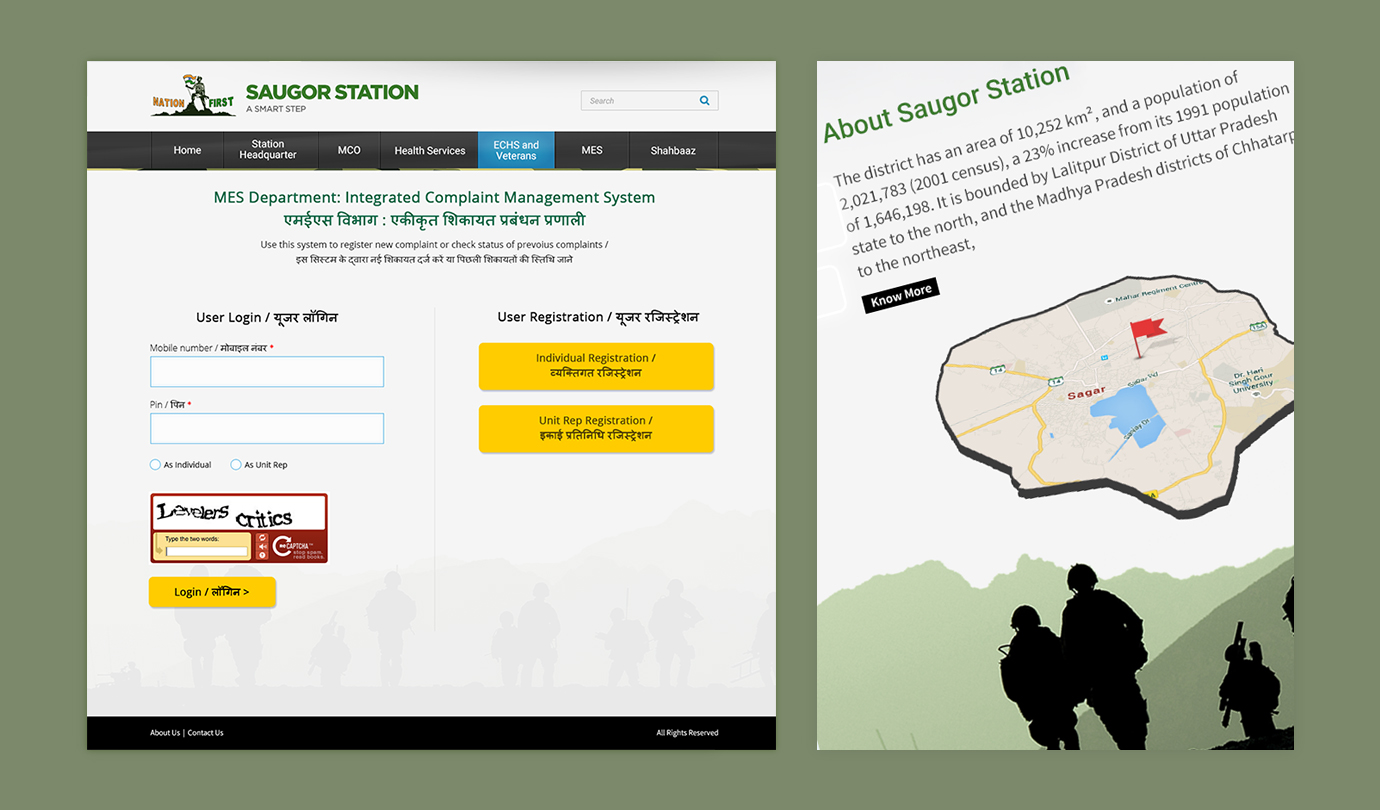
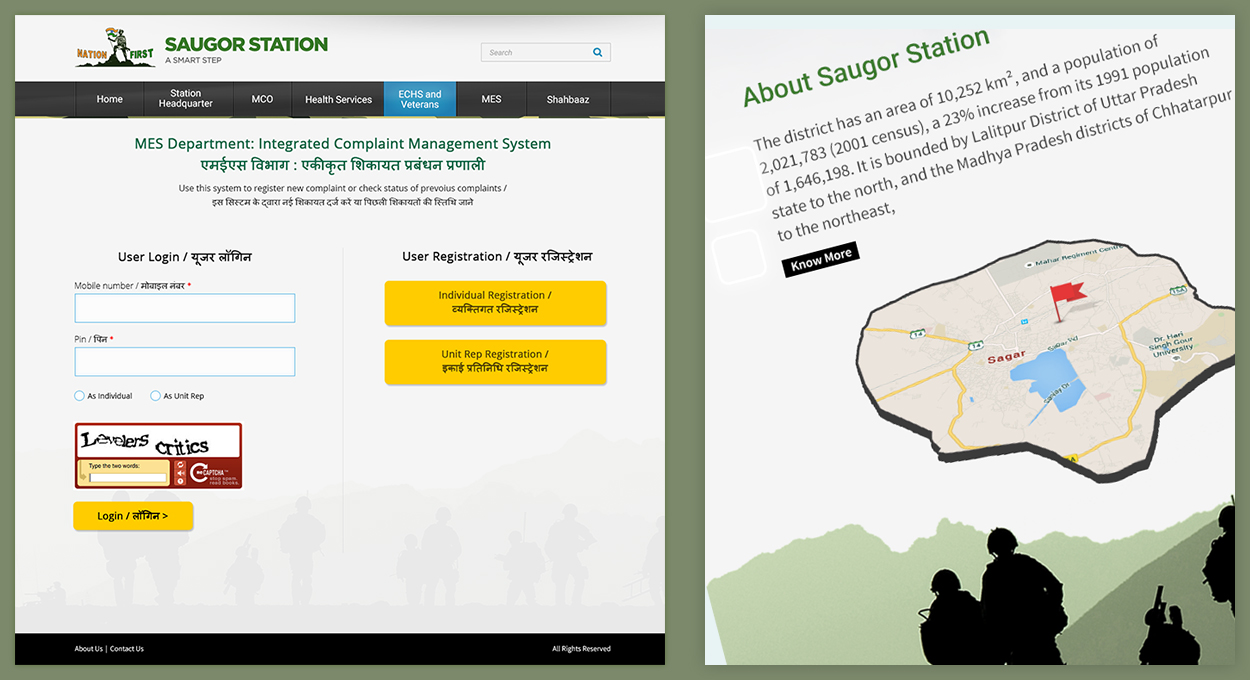
updated with resized images

diff --git a/index.html b/index.html
@@ -1,173 +1,209 @@
 <!doctype html>
 <html lang="en">
 
-	<head>
-		<meta charset="utf-8">
+<head>
+    <meta charset="utf-8">
 
-		<title>47Billion Design Portfolio</title>
+    <title>47Billion Design Portfolio</title>
 
-		<meta name="viewport" content="width=device-width, initial-scale=1.0, maximum-scale=1.0, user-scalable=no, minimal-ui">
+    <meta name="viewport"
+          content="width=device-width, initial-scale=1.0, maximum-scale=1.0, user-scalable=no, minimal-ui">
 
-		<link rel="stylesheet" href="css/reveal.css">
-        <link rel="stylesheet" href="css/style.css">
-		<link rel="stylesheet" href="css/theme/white.css" id="theme">
-        <link rel="stylesheet" href="css/font-awesome.css">
+    <link rel="stylesheet" href="css/reveal.css">
+    <link rel="stylesheet" href="css/style.css">
+    <link rel="stylesheet" href="css/theme/white.css" id="theme">
+    <link rel="stylesheet" href="css/font-awesome.css">
 
-		<!-- Code syntax highlighting -->
-		<link rel="stylesheet" href="lib/css/zenburn.css">
+    <!-- Code syntax highlighting -->
+    <link rel="stylesheet" href="lib/css/zenburn.css">
 
-		<!-- Printing and PDF exports -->
-		<script>
-			var link = document.createElement( 'link' );
-			link.rel = 'stylesheet';
-			link.type = 'text/css';
-			link.href = window.location.search.match( /print-pdf/gi ) ? 'css/print/pdf.css' : 'css/print/paper.css';
-			document.getElementsByTagName( 'head' )[0].appendChild( link );
-		</script>
+    <!-- Printing and PDF exports -->
+    <script>
+        var link = document.createElement('link');
+        link.rel = 'stylesheet';
+        link.type = 'text/css';
+        link.href = window.location.search.match(/print-pdf/gi) ? 'css/print/pdf.css' : 'css/print/paper.css';
+        document.getElementsByTagName('head')[0].appendChild(link);
+    </script>
 
-		<!--[if lt IE 9]>
-		<script src="lib/js/html5shiv.js"></script>
-		<![endif]-->
+    <!--[if lt IE 9]>
+    <script src="lib/js/html5shiv.js"></script>
+    <![endif]-->
 
-        <script>
-            (function(i,s,o,g,r,a,m){i['GoogleAnalyticsObject']=r;i[r]=i[r]||function(){
-                (i[r].q=i[r].q||[]).push(arguments)},i[r].l=1*new Date();a=s.createElement(o),
-                    m=s.getElementsByTagName(o)[0];a.async=1;a.src=g;m.parentNode.insertBefore(a,m)
-            })(window,document,'script','//www.google-analytics.com/analytics.js','ga');
+    <script>
+        (function (i, s, o, g, r, a, m) {
+            i['GoogleAnalyticsObject'] = r;
+            i[r] = i[r] || function () {
+                        (i[r].q = i[r].q || []).push(arguments)
+                    }, i[r].l = 1 * new Date();
+            a = s.createElement(o),
+                    m = s.getElementsByTagName(o)[0];
+            a.async = 1;
+            a.src = g;
+            m.parentNode.insertBefore(a, m)
+        })(window, document, 'script', '//www.google-analytics.com/analytics.js', 'ga');
 
-            ga('create', 'UA-60258456-4', 'auto');
-            ga('send', 'pageview');
+        ga('create', 'UA-60258456-4', 'auto');
+        ga('send', 'pageview');
 
-        </script>
+    </script>
 
-	</head>
+</head>
 
-	<body>
+<body>
 
-		<div class="reveal">
+<div class="reveal">
 
-			<!-- Any section element inside of this container is displayed as a slide -->
-			<div class="slides">
+    <!-- Any section element inside of this container is displayed as a slide -->
+    <div class="slides">
 
-                <section data-transition="convex">
-                    <img src="images/logo-47b.png">
-                    <h3>Design Portfolio</h3>
-                    <p>Please use spacebar or <i class="fa fa-arrow-circle-o-left"></i> <i class="fa fa-arrow-circle-o-right"></i><i class="fa fa-arrow-circle-o-up"></i> <i class="fa fa-arrow-circle-o-down"></i><!--<i class="fa fa-arrows-h"></i>--> on keyboard or swipe to navigate.</p>
-                </section>
-                <!--    <section data-background-transition="convex">
-                     <h2>Product Portals</h2>
-                 </section>
-              <section data-background="images/product-portals/ciscoDashboard.jpg" data-background-transition="slide">
+        <section data-transition="convex">
+            <img src="images/logo-47b.png">
 
-                 </section>
-                 <section data-background="images/product-portals/Innoeye_Technologies.jpg" data-background-transition="slide">
-                 </section>
-                 <section data-background="images/product-portals/personagraph.png" data-background-transition="slide">
-                 </section>-->
-                <section data-transition="convex">
-                    <section><h2>Product Portals</h2></section>
-                    <section data-background="images/product-portals/Cisco.jpg" data-background-transition="slide">
-                    </section>
-                    <section data-background="images/product-portals/Cisco-1.jpg" data-background-transition="slide">
-                    </section>
-                </section>
-                <section data-transition="convex">
-                    <section><h2>Websites</h2></section>
-                    <section data-background="images/websites/agoranza.jpg" data-background-transition="slide">
-                    </section>
-                    <section data-background="images/websites/agribolo.jpg" data-background-transition="slide">
-                    </section>
-                    <section data-background="images/websites/Architects.jpg" data-background-transition="slide">
-                    </section>
-                    <section data-background="images/websites/dylaar.jpg" data-background-transition="slide">
-                    </section>
-                    <section data-background="images/websites/ez.jpg" data-background-transition="slide">
-                    </section>
-                    <section data-background="images/websites/gataca.jpg" data-background-transition="slide">
-                    </section>
-                    <section data-background="images/websites/Lsquared.jpg" data-background-transition="slide">
-                    </section>
-                    <section data-background="images/websites/rajsthan.jpg" data-background-transition="slide">
-                    </section>
-                    <section data-background="images/websites/sagour.jpg" data-background-transition="slide">
-                    </section>
-                    <section data-background="images/websites/Seedx.jpg" data-background-transition="slide">
-                    </section>
-                    <section data-background="images/websites/toyota.jpg" data-background-transition="slide">
-                    </section>
-                    <section data-background="images/websites/tuktuk.jpg" data-background-transition="slide">
-                    </section>
-                    <section data-background="images/websites/UStech.jpg" data-background-transition="slide">
-                    </section>
-                </section>
-                <section data-transition="convex">
-                    <section><h2>Mobile Apps</h2></section>
-                    <section data-background="images/mobile-apps/Uh-O!.jpg" data-background-transition="slide">
-                    </section>
-                    <section data-background="images/mobile-apps/go-tuktuk.jpg" data-background-transition="slide">
-                    </section>
-                    <section data-background="images/mobile-apps/mapSearch.jpg" data-background-transition="slide">
-                    </section>
-                    <section data-background="images/mobile-apps/flum.jpg" data-background-transition="slide">
-                    </section>
-                    <section data-background="images/mobile-apps/dr-plus.jpg" data-background-transition="slide">
-                    </section>
-                    <section data-background="images/mobile-apps/Cisco.jpg" data-background-transition="slide">
-                    </section>
-                    <section data-background="images/mobile-apps/agribolo.jpg" data-background-transition="slide">
-                    </section>
-                </section>
-                <section data-transition="convex">
-                    <img src="images/logo-47b.png">
-                    <h3>Contact us</h3>
-                    <p>info@47billion.com</p>
-                </section>
+            <h3>Design Portfolio</h3>
 
-			</div>
+            <p>Please use spacebar or <i class="fa fa-arrow-circle-o-left"></i> <i
+                    class="fa fa-arrow-circle-o-right"></i><!--<i class="fa fa-arrows-h"></i>--> on keyboard or swipe to
+                navigate.</p>
+        </section>
 
-		</div>
+        <section><h2>Mobile Apps</h2></section>
+        <section data-background="images/mobile-apps/Uh-O!.jpg" data-background-transition="slide">
+        </section>
+        <section data-background="images/mobile-apps/go-tuktuk.jpg" data-background-transition="slide">
+        </section>
+        <section data-background="images/mobile-apps/mapSearch.jpg" data-background-transition="slide">
+        </section>
+        <section data-background="images/mobile-apps/flum.jpg" data-background-transition="slide">
+        </section>
+        <section data-background="images/mobile-apps/dr-plus.jpg" data-background-transition="slide">
+        </section>
+        <section data-background="images/mobile-apps/Cisco.jpg" data-background-transition="slide">
+        </section>
+        <section data-background="images/mobile-apps/agribolo.jpg" data-background-transition="slide">
+        </section>
 
-        <div class="footer">
-            <a href="http://www.47billion.com/"><img src="images/logo-47b.png"></a>
-            <div class="footer-align">
-                <div class="footer-nav">
-                    <ul>
-                        <li><a target="_blank" href="http://www.47billion.com/blog">Blog</a></li>
-                        <li><a href="http://47billion.com/careers">Careers</a></li>
-                        <li><a href="mailto:info@47billion.com">Contact Us</a></li>
-                    </ul>
-                </div>
-                <span class="copyright-text">47Billion &copy; 2015</span>
-            </div>
+        <section><h2>UX</h2></section>
+        <section data-background="images/ux/Agoranza.jpg" data-background-transition="slide"
+                 data-background-size="cover">
+        </section>
+        <section data-background="images/ux/Agribolo-Screen-flow.jpg" data-background-transition="slide">
+        </section>
+        <section data-background="images/ux/Agribolo-web-wireframe.jpg" data-background-transition="slide">
+        </section>
+        <section data-background="images/ux/Agribolo-web-wireframe-2.jpg"
+                 data-background-transition="slide">
+        </section>
+        <section data-background="images/ux/tuktuk-driver-screen-flow.jpg"
+                 data-background-transition="slide">
+        </section>
+        <section data-background="images/ux/tuktuk-riders-screen-flow.jpg"
+                 data-background-transition="slide">
+        </section>
+
+
+        <section><h2>Websites</h2></section>
+        <section data-background="images/websites/agoranza.jpg" data-background-transition="slide">
+        </section>
+        <section data-background="images/websites/agribolo.jpg" data-background-transition="slide">
+        </section>
+        <section data-background="images/websites/Architects.jpg" data-background-transition="slide">
+        </section>
+        <section data-background="images/websites/Cisco.jpg" data-background-transition="slide">
+        </section>
+        <section data-background="images/websites/Cisco-1.jpg" data-background-transition="slide">
+        </section>
+        <section data-background="images/websites/dylaar.jpg" data-background-transition="slide">
+        </section>
+        <section data-background="images/websites/e-health.jpg" data-background-transition="slide">
+        </section>
+        <section data-background="images/websites/GATA.jpg" data-background-transition="slide">
+        </section>
+        <section data-background="images/websites/Lsquared.jpg" data-background-transition="slide">
+        </section>
+        <section data-background="images/websites/rajsthan.jpg" data-background-transition="slide">
+        </section>
+        <section data-background="images/websites/sagour.jpg" data-background-transition="slide">
+        </section>
+        <section data-background="images/websites/Seedx.jpg" data-background-transition="slide">
+        </section>
+        <section data-background="images/websites/toyota.jpg" data-background-transition="slide">
+        </section>
+        <section data-background="images/websites/tuktuk.jpg" data-background-transition="slide">
+        </section>
+        <section data-background="images/websites/UStech.jpg" data-background-transition="slide">
+        </section>
+        <section data-transition="convex">
+            <img src="images/logo-47b.png">
+
+            <h3>Contact us</h3>
+
+            <p>info@47billion.com</p>
+        </section>
+
+    </div>
+
+</div>
+
+<div class="footer">
+    <a href="http://www.47billion.com/"><img src="images/logo-47b.png"></a>
+
+    <div class="footer-align">
+        <div class="footer-nav">
+            <ul>
+                <li><a target="_blank" href="http://www.47billion.com/blog">Blog</a></li>
+                <li><a href="http://47billion.com/careers">Careers</a></li>
+                <li><a href="mailto:info@47billion.com">Contact Us</a></li>
+            </ul>
         </div>
+        <span class="copyright-text">47Billion &copy; 2015</span>
+    </div>
+</div>
 
-		<script src="lib/js/head.min.js"></script>
-		<script src="js/reveal.js"></script>
+<script src="lib/js/head.min.js"></script>
+<script src="js/reveal.js"></script>
 
-		<script>
+<script>
 
-			// Full list of configuration options available at:
-			// https://github.com/hakimel/reveal.js#configuration
-			Reveal.initialize({
-				controls: true,
-				progress: true,
-				history: true,
-				center: true,
+    // Full list of configuration options available at:
+    // https://github.com/hakimel/reveal.js#configuration
+    Reveal.initialize({
+        controls: true,
+        progress: true,
+        history: true,
 
-				transition: 'slide', // none/fade/slide/convex/concave/zoom
+        transition: 'slide', // none/fade/slide/convex/concave/zoom
 
-				// Optional reveal.js plugins
-				dependencies: [
-					{ src: 'lib/js/classList.js', condition: function() { return !document.body.classList; } },
-					{ src: 'plugin/markdown/marked.js', condition: function() { return !!document.querySelector( '[data-markdown]' ); } },
-					{ src: 'plugin/markdown/markdown.js', condition: function() { return !!document.querySelector( '[data-markdown]' ); } },
-					{ src: 'plugin/highlight/highlight.js', async: true, condition: function() { return !!document.querySelector( 'pre code' ); }, callback: function() { hljs.initHighlightingOnLoad(); } },
-					{ src: 'plugin/zoom-js/zoom.js', async: true },
-					{ src: 'plugin/notes/notes.js', async: true }
-				]
-			});
+        // Optional reveal.js plugins
+        dependencies: [
+            {
+                src: 'lib/js/classList.js', condition: function () {
+                return !document.body.classList;
+            }
+            },
+            {
+                src: 'plugin/markdown/marked.js', condition: function () {
+                return !!document.querySelector('[data-markdown]');
+            }
+            },
+            {
+                src: 'plugin/markdown/markdown.js', condition: function () {
+                return !!document.querySelector('[data-markdown]');
+            }
+            },
+            {
+                src: 'plugin/highlight/highlight.js', async: true, condition: function () {
+                return !!document.querySelector('pre code');
+            }, callback: function () {
+                hljs.initHighlightingOnLoad();
+            }
+            },
+            {src: 'plugin/zoom-js/zoom.js', async: true},
+            {src: 'plugin/notes/notes.js', async: true}
+        ]
+    });
+    console.log(Reveal.getScale())
+</script>
 
-		</script>
-
-	</body>
+</body>
 </html>
